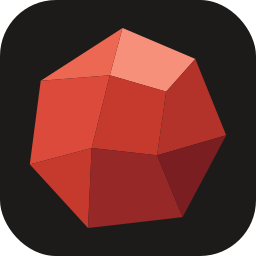
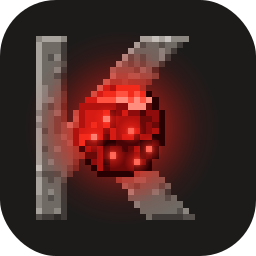
docs(brand): pixel K with a glowing redstone-like stone; wordmark below the mark
The mark becomes the wordmark's K as a 32 x 32 pixel picture in grey stone,
with a faceted red stone (16 x 16 texture, glowing specks) set into its
heart; a red bloom and light spilled onto the K give the shader look. The
logo stacks the wordmark under the mark. Icons (32 px pixel for pixel,
16 px the stone alone), social preview, brand red (#D51B13) and the brand
page follow.

diff --git a/docs/brand/README.md b/docs/brand/README.md
@@ -3,7 +3,7 @@
 <p>
   <picture>
     <source media="(prefers-color-scheme: dark)" srcset="krasnokamen-logo-on-dark.svg">
-    <img src="krasnokamen-logo-on-light.svg" alt="Krasnokamen" width="420">
+    <img src="krasnokamen-logo-on-light.svg" alt="Krasnokamen" width="320">
   </picture>
 </p>
 
@@ -15,9 +15,10 @@ original art drawn for the project: no Mojang textures, no Minecraft imagery.
 
 - Write **Krasnokamen**: one word, capital K, the rest lower case. Not
   "KrasnoKamen", "Krasno Kamen", "Krasnokamen Engine" or "KK".
-- Meaning: from Russian «красный камень», "red stone". The stone is a rock,
-  not Minecraft's redstone, and the art never shows redstone dust, torches or
-  circuits.
+- Meaning: from Russian «красный камень», "red stone". The mark sets a red
+  stone, drawn as a pixel texture that glows like redstone under shader light,
+  into a pixel K. It is drawn for the project, never copied from a Mojang
+  texture, and never shows torches, wires or circuits.
 - English pronunciation: **kras-NO-ka-men**.
 - Components keep the name in front: Krasnokamen Client, Krasnokamen Loader,
   Krasnokamen Default Plugins.
@@ -48,11 +49,11 @@ a reader may know the old name; otherwise use Krasnokamen alone.
 
 | File | Use |
 | :-- | :-- |
-| [`krasnokamen-logo-on-light.svg`](krasnokamen-logo-on-light.svg) | Primary logo (mark and wordmark) for light backgrounds |
-| [`krasnokamen-logo-on-dark.svg`](krasnokamen-logo-on-dark.svg) | Primary logo for dark backgrounds: light wordmark, lower stone facets one step lighter |
+| [`krasnokamen-logo-on-light.svg`](krasnokamen-logo-on-light.svg) | Primary logo for light backgrounds: the mark, the wordmark centred below it |
+| [`krasnokamen-logo-on-dark.svg`](krasnokamen-logo-on-dark.svg) | Primary logo for dark backgrounds: light wordmark, stronger glow |
 | [`krasnokamen-wordmark-on-light.svg`](krasnokamen-wordmark-on-light.svg), [`krasnokamen-wordmark-on-dark.svg`](krasnokamen-wordmark-on-dark.svg) | Wordmark alone, where the mark already appears nearby |
-| [`krasnokamen-mark-on-light.svg`](krasnokamen-mark-on-light.svg), [`krasnokamen-mark-on-dark.svg`](krasnokamen-mark-on-dark.svg) | The faceted red stone alone, transparent |
-| [`krasnokamen-icon.svg`](krasnokamen-icon.svg) and `krasnokamen-icon-{16,32,64,256,512}.png` | Square app, launcher and favicon icon: the stone on a Stone 900 tile |
+| [`krasnokamen-mark-on-light.svg`](krasnokamen-mark-on-light.svg), [`krasnokamen-mark-on-dark.svg`](krasnokamen-mark-on-dark.svg) | The mark alone (the K and its stone), transparent |
+| [`krasnokamen-icon.svg`](krasnokamen-icon.svg) and `krasnokamen-icon-{16,32,64,256,512}.png` | Square app, launcher and favicon icon: the mark on a Stone 900 tile. The 32 px PNG is the 32 × 32 mark pixel for pixel; the 16 px PNG is the stone alone |
 
 The wordmark is drawn as outlined SVG paths, so no font is needed to show it.
 Never retype KRASNOKAMEN in a font to imitate it; use the files.
@@ -62,41 +63,50 @@ In a GitHub README, let the reader's theme pick the variant:
 ```html
 <picture>
   <source media="(prefers-color-scheme: dark)" srcset="https://raw.githubusercontent.com/kaiserproger/krasnokamen/main/docs/brand/krasnokamen-logo-on-dark.svg">
-  <img src="https://raw.githubusercontent.com/kaiserproger/krasnokamen/main/docs/brand/krasnokamen-logo-on-light.svg" alt="Krasnokamen" width="480">
+  <img src="https://raw.githubusercontent.com/kaiserproger/krasnokamen/main/docs/brand/krasnokamen-logo-on-light.svg" alt="Krasnokamen" width="420">
 </picture>
 ```
 
 ## Mark and wordmark
 
-The mark is a cut stone lit from the top left: eight flat facets in the red
-ramp below, lightest on the top facet, darkest at the lower right. The wordmark
-is a set of chiselled capitals: square stems, and every curve cut into straight
-45° facets (the O is an octagon), echoing the stone.
+The mark is a 32 × 32 pixel picture: the K of the wordmark, drawn in grey
+stone, with a red stone set into its heart where the arm and the leg meet the
+stem. The stone is a 16 × 16 texture, the size of a block texture: eight
+facets lit from the top left, light ridges where a facet meets a darker one,
+a dark outline on the shadow side and six glowing specks. A red bloom around
+the stone and each speck, and red light spilling onto the grey K, give it the
+look of an emissive block under shaders. The wordmark is a set of chiselled
+capitals: square stems, and every curve cut into straight 45° facets (the O is
+an octagon). In the logo the wordmark sits centred below the mark.
 
-- Clear space: keep free space of at least half the mark's height on every side
-  of the logo.
-- Minimum size: the logo at 160 px wide; the mark alone at 24 px. Below 32 px use
-  the icon PNGs, which are rendered for those sizes.
+- Clear space: keep free space of at least a quarter of the logo's width on
+  every side.
+- Minimum size: the logo at 160 px wide; the mark alone at 32 px. Below 64 px use
+  the icon PNGs, which are drawn at exact pixel sizes. Where you choose the size
+  of the mark, prefer whole multiples of 32 px.
 - Do not recolour, outline, rotate, stretch, shadow or animate the mark or the
-  wordmark, rearrange the lockup, place the logo on a busy picture, or combine
-  it with Minecraft or Mojang logos and textures.
+  wordmark, smooth or blur its pixels, add more glow, rearrange the logo, place
+  it on a busy picture, or combine it with Minecraft or Mojang logos and
+  textures.
 
 ## Colour
 
-Brand red is **`#C63A2E`**. The red ramp exists to shade the stone's facets;
+Brand red is **`#D51B13`**. The red ramp exists to draw the stone's texture;
 use brand red alone for accents, links and highlights. Stone greys carry text
 and surfaces.
 
 | Name | Hex | Use |
 | :-- | :-- | :-- |
-| Red 100 | `#F7907A` | Top facet |
-| Red 200 | `#EC6852` | Upper-left facet; red text on Stone 900 |
-| Red 300 | `#DB4A3A` | Left facet |
-| **Red 500 (brand red)** | **`#C63A2E`** | Front facet, accents, badges |
-| Red 600 | `#B33229` | Lower-left facet |
-| Red 700 | `#962827` | Right facet |
-| Red 800 | `#7A1E21` | Bottom facet |
-| Red 900 | `#5E161A` | Lower-right facet |
+| Red 50 | `#FFD3CA` | Hottest specks, in the light |
+| Red 100 | `#FF8C7C` | Glowing specks |
+| Red 200 | `#FF5241` | Lit pixels; red text on Stone 900 |
+| Red 300 | `#F22A1C` | Upper, lit face |
+| **Red 500 (brand red)** | **`#D51B13`** | Front face, accents, badges |
+| Red 600 | `#B2120E` | Middle face |
+| Red 700 | `#8E0C0B` | Lower face |
+| Red 800 | `#6B0808` | Shadow |
+| Red 900 | `#4A0406` | Deep shadow |
+| Red 950 | `#2A0103` | Outline on the shadow side |
 | Stone 50 | `#F5F3F1` | Wordmark and text on dark |
 | Stone 100 | `#E9E6E3` | Light surfaces, panels |
 | Stone 300 | `#C4BFBA` | Secondary text on dark, rules on light |
@@ -105,9 +115,11 @@ and surfaces.
 | Stone 800 | `#2F2C2A` | Raised dark surfaces |
 | Stone 900 | `#1D1B1A` | Wordmark on light, dark backgrounds, icon tile |
 
-On dark backgrounds (the `-on-dark` files, the icon and the social preview) the
-right and lower facets move one step lighter, Red 500 to Red 800, so the stone
-keeps its outline.
+The grey K uses Stone 300, Stone 500 and Stone 700 with in-between tones for its
+bevel and grain; near the stone those pixels are tinted towards red by the
+stone's light. On dark backgrounds (the `-on-dark` files, the icon and the
+social preview) the glow is stronger; on light backgrounds it is softer, so it
+does not muddy the page.
 
 ## Type
 

diff --git a/README.md b/README.md
@@ -1,7 +1,7 @@
 <p align="center">
   <picture>
     <source media="(prefers-color-scheme: dark)" srcset="docs/brand/krasnokamen-logo-on-dark.svg">
-    <img src="docs/brand/krasnokamen-logo-on-light.svg" alt="Krasnokamen" width="560">
+    <img src="docs/brand/krasnokamen-logo-on-light.svg" alt="Krasnokamen" width="420">
   </picture>
 </p>
 
@@ -16,7 +16,7 @@
 </p>
 
 <p align="center">
-  <a href="https://github.com/kaiserproger/krasnokamen/releases"><img alt="Latest release" src="https://img.shields.io/github/v/release/kaiserproger/krasnokamen?include_prereleases&display_name=tag&sort=semver&style=for-the-badge&color=C63A2E"></a>
+  <a href="https://github.com/kaiserproger/krasnokamen/releases"><img alt="Latest release" src="https://img.shields.io/github/v/release/kaiserproger/krasnokamen?include_prereleases&display_name=tag&sort=semver&style=for-the-badge&color=D51B13"></a>
   <a href="https://github.com/kaiserproger/krasnokamen/actions/workflows/ci.yml"><img alt="CI" src="https://img.shields.io/github/actions/workflow/status/kaiserproger/krasnokamen/ci.yml?branch=main&label=CI&style=for-the-badge"></a>
   <img alt="Minecraft Java 26.3" src="https://img.shields.io/badge/Minecraft_Java-26.3-62B47A?style=for-the-badge">
   <img alt="Built with Rust" src="https://img.shields.io/badge/Built_with-Rust-CE422B?style=for-the-badge&logo=rust&logoColor=white">
